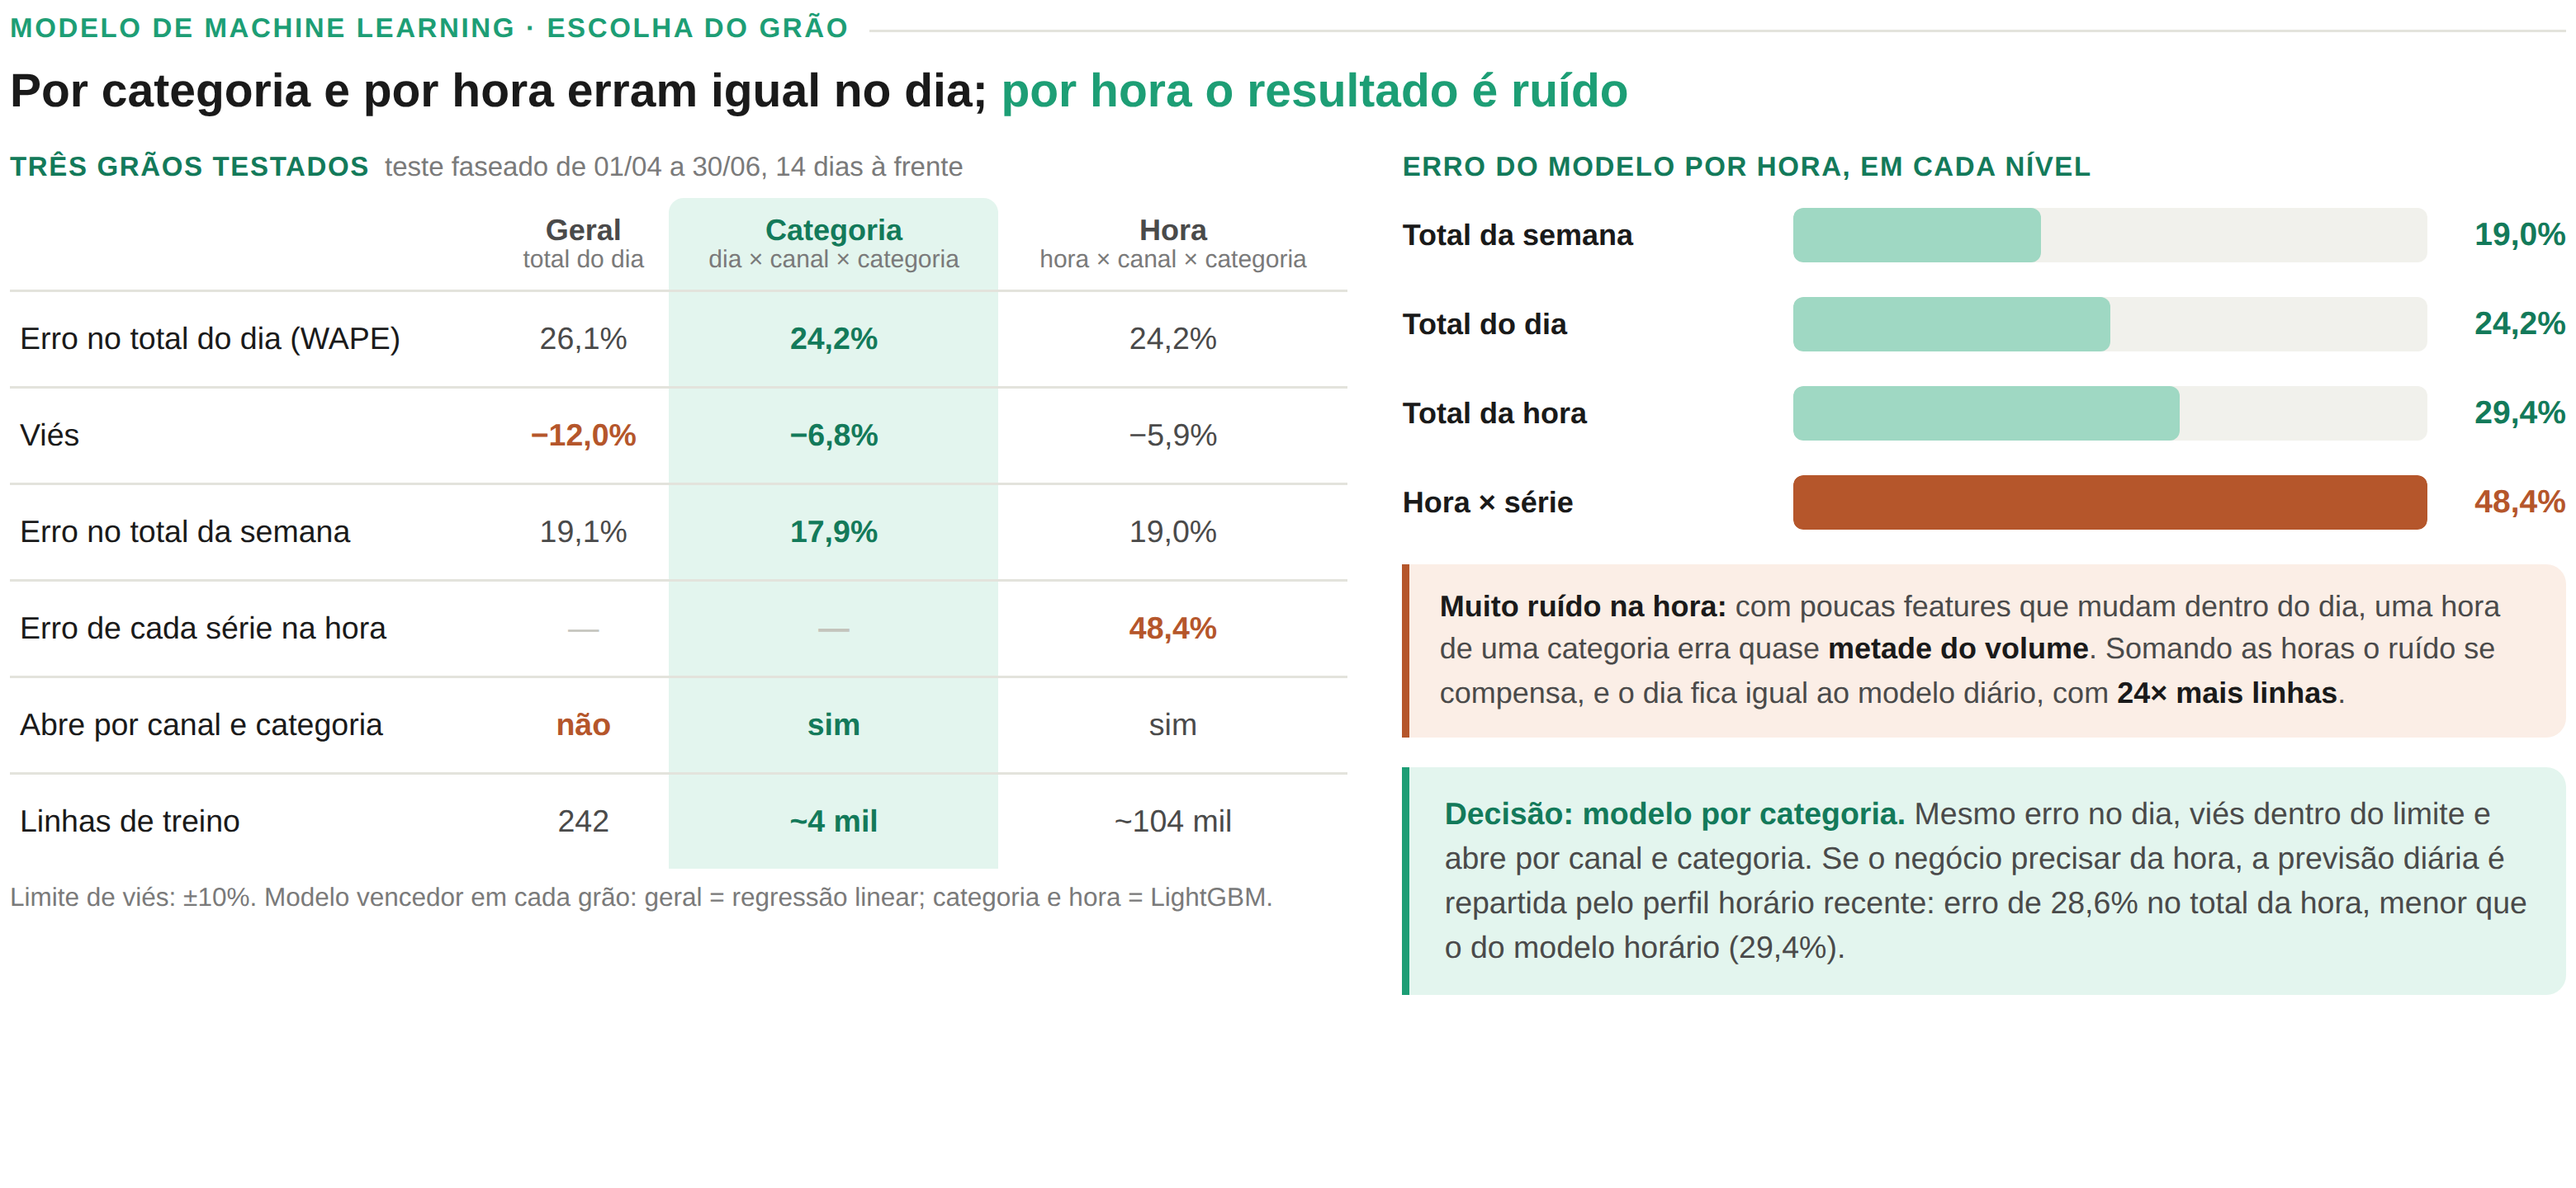
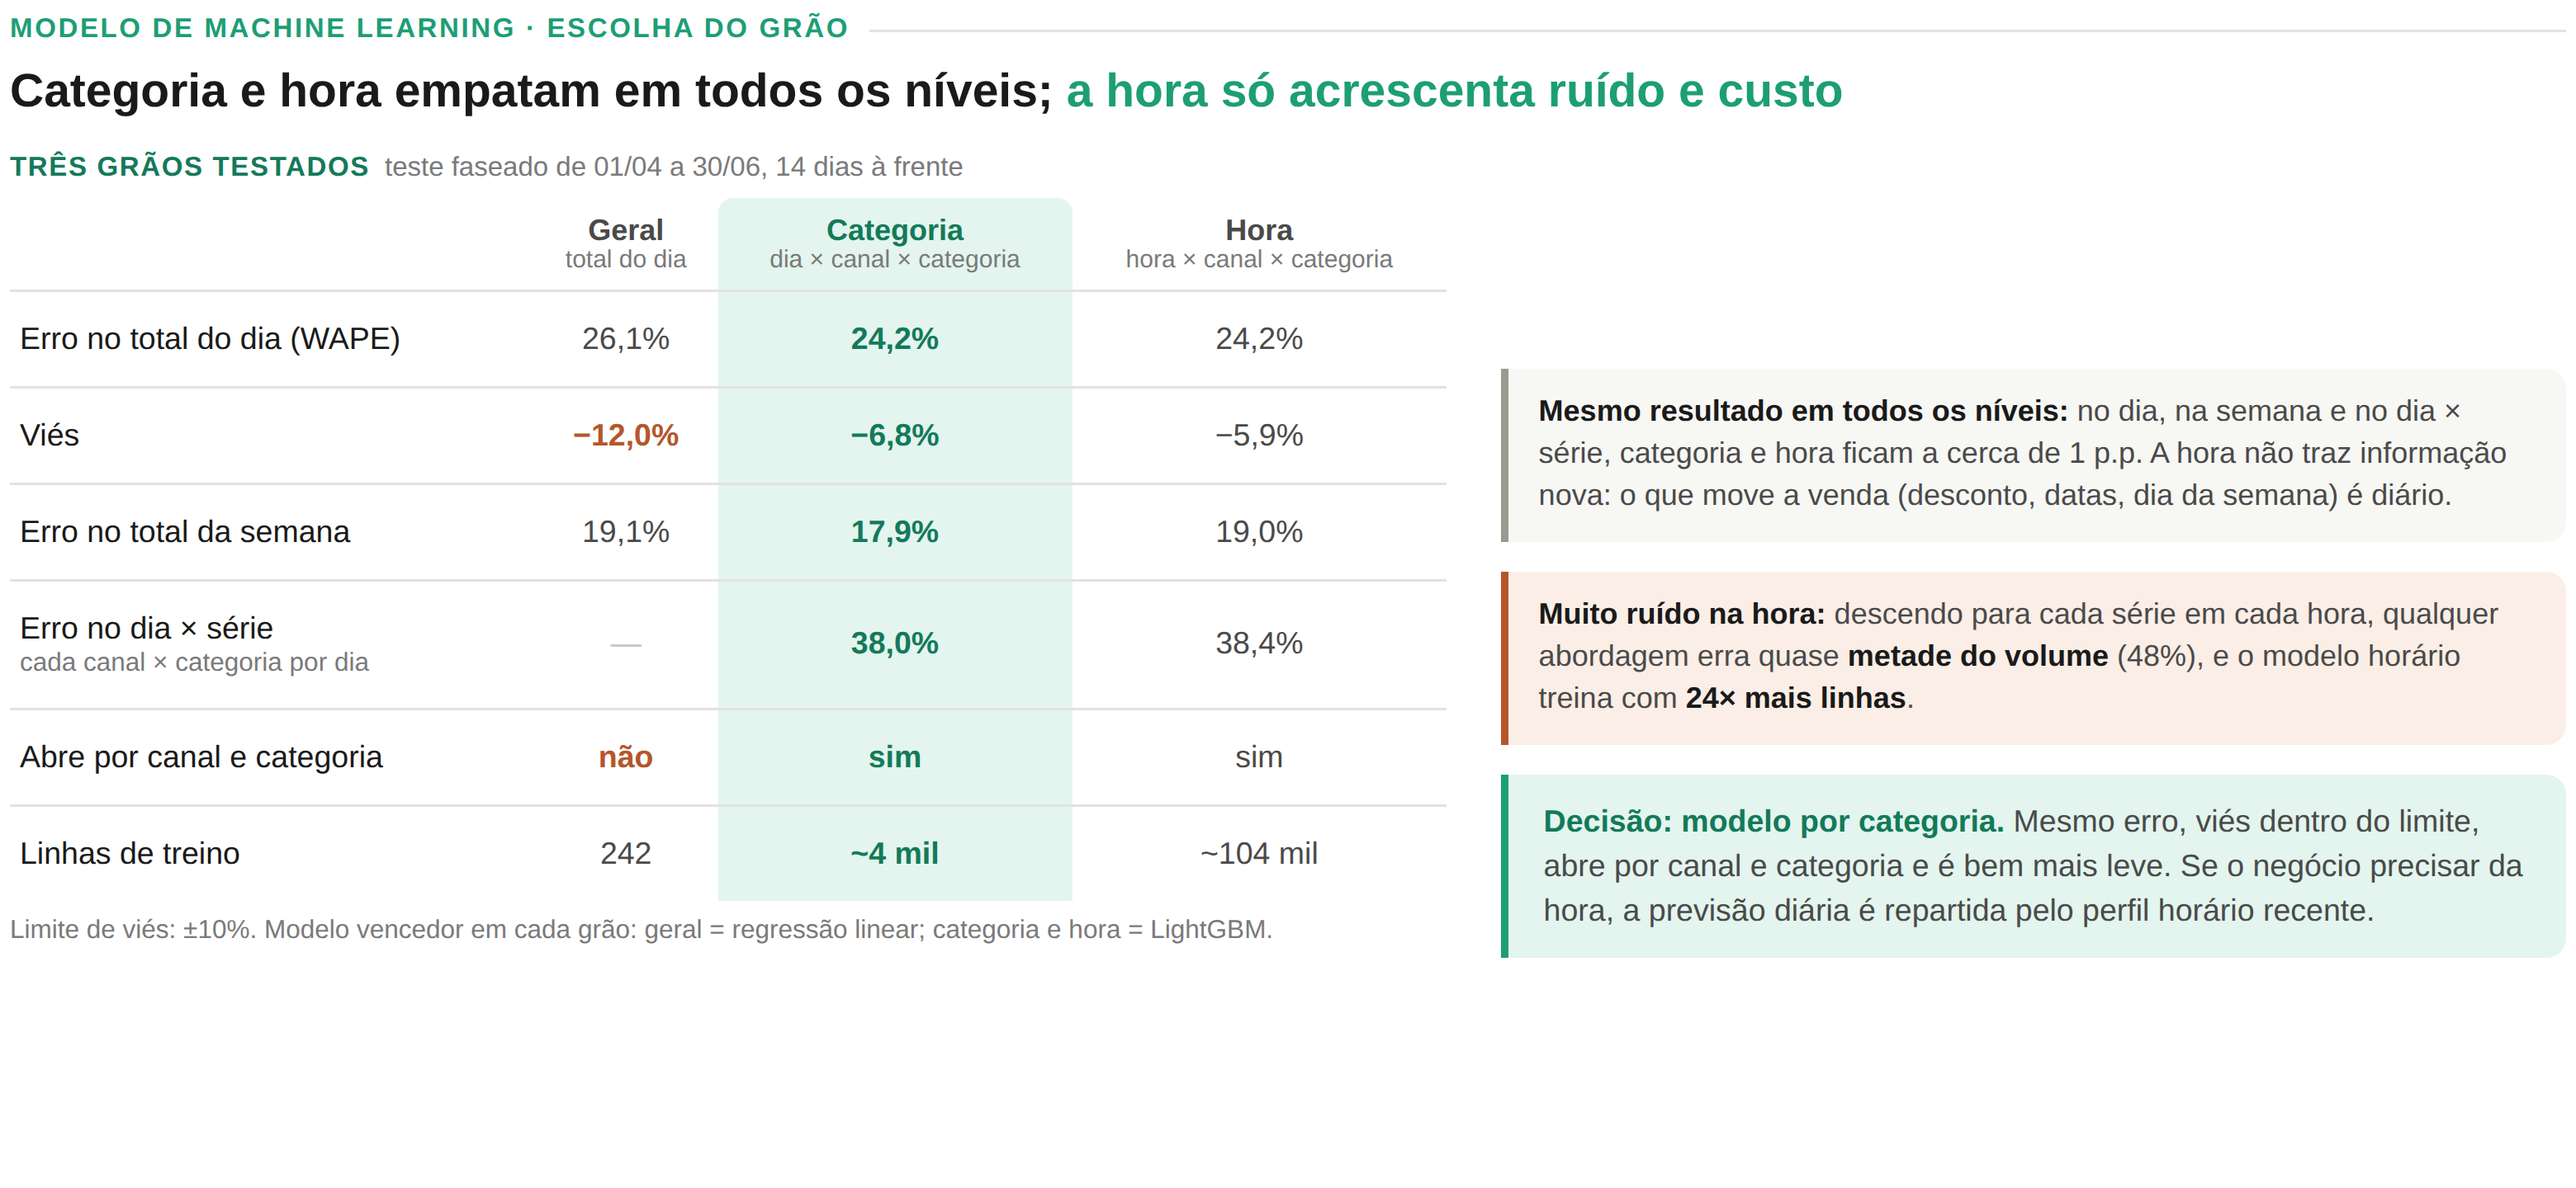
Widget de comparação: dia × série lado a lado e sem o gráfico de níveis
Claude-Session: https://claude.ai/code/session_01NUJZKTcM8cs9QBTcUeuacF

diff --git a/apresentacao/widgets/14_comparacao_graos.html b/apresentacao/widgets/14_comparacao_graos.html
@@ -14,7 +14,7 @@
   .rotulo::after { content: ""; flex: 1; height: 1px; background: var(--linha); }
   h3 { font-size: 19px; line-height: 1.25; margin-bottom: 12px; }
   h3 span { color: var(--verde); }
-  .colunas { display: grid; grid-template-columns: 1.15fr 1fr; gap: 22px; flex: 1; }
+  .colunas { display: grid; grid-template-columns: 1.35fr 1fr; gap: 22px; flex: 1; }
   .tit { font-size: 11px; font-weight: 700; color: var(--verde-escuro); text-transform: uppercase; letter-spacing: .05em; margin-bottom: 6px; }
   .tit small { font-weight: 400; text-transform: none; letter-spacing: 0; color: var(--tinta-3); font-size: 11px; margin-left: 6px; }
 
@@ -29,7 +29,8 @@
   .comp td.na { color: #c4c4bc; }
   .nota { font-size: 10.5px; color: var(--tinta-3); margin-top: 6px; }
 
-  .ruido { display: flex; flex-direction: column; }
+  .ruido { display: flex; flex-direction: column; justify-content: center; }
+  .comp td small.sub { display: block; font-size: 10.5px; color: var(--tinta-3); margin-top: 1px; }
   .barras { display: flex; flex-direction: column; gap: 14px; margin-top: 4px; }
   .linha-b { display: grid; grid-template-columns: 150px 1fr 48px; align-items: center; gap: 8px; font-size: 12px; color: var(--tinta-2); }
   .linha-b b { color: var(--tinta); }
@@ -38,16 +39,17 @@
   .trilho i.r { background: var(--laranja); }
   .val { font-weight: 700; font-size: 13px; text-align: right; color: var(--verde-escuro); }
   .val.r { color: var(--laranja); }
-  .msg { margin-top: auto; border-left: 3px solid var(--laranja); background: var(--laranja-claro); border-radius: 0 8px 8px 0; padding: 9px 12px; font-size: 12px; line-height: 1.45; color: var(--tinta-2); }
+  .msg { margin-bottom: 12px; border-left: 3px solid var(--laranja); background: var(--laranja-claro); border-radius: 0 8px 8px 0; padding: 9px 12px; font-size: 12px; line-height: 1.45; color: var(--tinta-2); }
   .msg b { color: var(--tinta); }
-  .decisao { margin-top: 12px; background: var(--verde-claro); border-left: 3px solid var(--verde); border-radius: 0 8px 8px 0; padding: 10px 14px; font-size: 12.5px; line-height: 1.45; color: var(--tinta-2); }
+  .msg.neutro { background: #f7f7f4; border-left-color: #9a9a90; }
+  .decisao { margin-top: 0; background: var(--verde-claro); border-left: 3px solid var(--verde); border-radius: 0 8px 8px 0; padding: 10px 14px; font-size: 12.5px; line-height: 1.45; color: var(--tinta-2); }
   .decisao b { color: var(--verde-escuro); }
 </style>
 </head>
 <body>
 <div class="widget">
   <div class="rotulo">Modelo de machine learning · escolha do grão</div>
-  <h3>Por categoria e por hora erram igual no dia; <span>por hora o resultado é ruído</span></h3>
+  <h3>Categoria e hora empatam em todos os níveis; <span>a hora só acrescenta ruído e custo</span></h3>
   <div class="colunas">
     <div>
       <div class="tit">Três grãos testados<small>teste faseado de 01/04 a 30/06, 14 dias à frente</small></div>
@@ -56,22 +58,16 @@
         <tr><td>Erro no total do dia (WAPE)</td><td>26,1%</td><td class="esc">24,2%</td><td>24,2%</td></tr>
         <tr><td>Viés</td><td class="ruim">−12,0%</td><td class="esc">−6,8%</td><td>−5,9%</td></tr>
         <tr><td>Erro no total da semana</td><td>19,1%</td><td class="esc">17,9%</td><td>19,0%</td></tr>
-        <tr><td>Erro de cada série na hora</td><td class="na">—</td><td class="na esc">—</td><td class="ruim">48,4%</td></tr>
+        <tr><td>Erro no dia × série<small class="sub">cada canal × categoria por dia</small></td><td class="na">—</td><td class="esc">38,0%</td><td>38,4%</td></tr>
         <tr><td>Abre por canal e categoria</td><td class="ruim">não</td><td class="esc">sim</td><td>sim</td></tr>
         <tr><td>Linhas de treino</td><td>242</td><td class="esc">~4 mil</td><td>~104 mil</td></tr>
       </table>
       <div class="nota">Limite de viés: ±10%. Modelo vencedor em cada grão: geral = regressão linear; categoria e hora = LightGBM.</div>
     </div>
     <div class="ruido">
-      <div class="tit">Erro do modelo por hora, em cada nível</div>
-      <div class="barras">
-        <div class="linha-b"><span><b>Total da semana</b></span><div class="trilho"><i style="width:39%"></i></div><span class="val">19,0%</span></div>
-        <div class="linha-b"><span><b>Total do dia</b></span><div class="trilho"><i style="width:50%"></i></div><span class="val">24,2%</span></div>
-        <div class="linha-b"><span><b>Total da hora</b></span><div class="trilho"><i style="width:61%"></i></div><span class="val">29,4%</span></div>
-        <div class="linha-b"><span><b>Hora × série</b></span><div class="trilho"><i class="r" style="width:100%"></i></div><span class="val r">48,4%</span></div>
-      </div>
-      <div class="msg" style="margin-top:14px"><b>Muito ruído na hora:</b> com poucas features que mudam dentro do dia, uma hora de uma categoria erra quase <b>metade do volume</b>. Somando as horas o ruído se compensa, e o dia fica igual ao modelo diário, com <b>24× mais linhas</b>.</div>
-      <div class="decisao"><b>Decisão: modelo por categoria.</b> Mesmo erro no dia, viés dentro do limite e abre por canal e categoria. Se o negócio precisar da hora, a previsão diária é repartida pelo perfil horário recente: erro de 28,6% no total da hora, menor que o do modelo horário (29,4%).</div>
+      <div class="msg neutro"><b>Mesmo resultado em todos os níveis:</b> no dia, na semana e no dia × série, categoria e hora ficam a cerca de 1 p.p. A hora não traz informação nova: o que move a venda (desconto, datas, dia da semana) é diário.</div>
+      <div class="msg"><b>Muito ruído na hora:</b> descendo para cada série em cada hora, qualquer abordagem erra quase <b>metade do volume</b> (48%), e o modelo horário treina com <b>24× mais linhas</b>.</div>
+      <div class="decisao"><b>Decisão: modelo por categoria.</b> Mesmo erro, viés dentro do limite, abre por canal e categoria e é bem mais leve. Se o negócio precisar da hora, a previsão diária é repartida pelo perfil horário recente.</div>
     </div>
   </div>
 </div>
